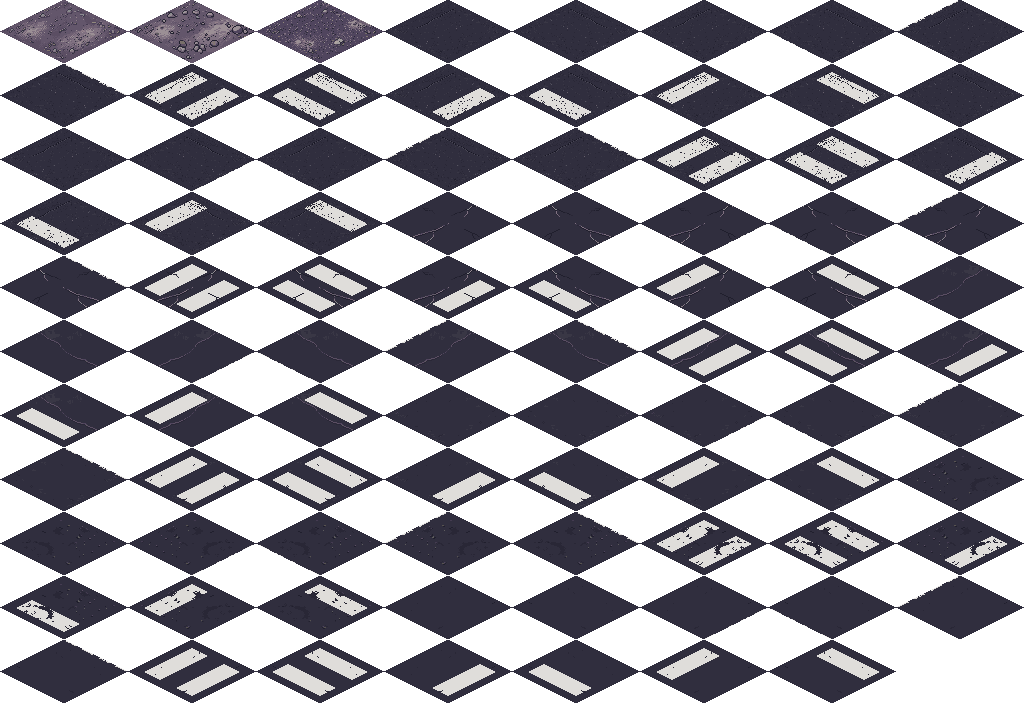
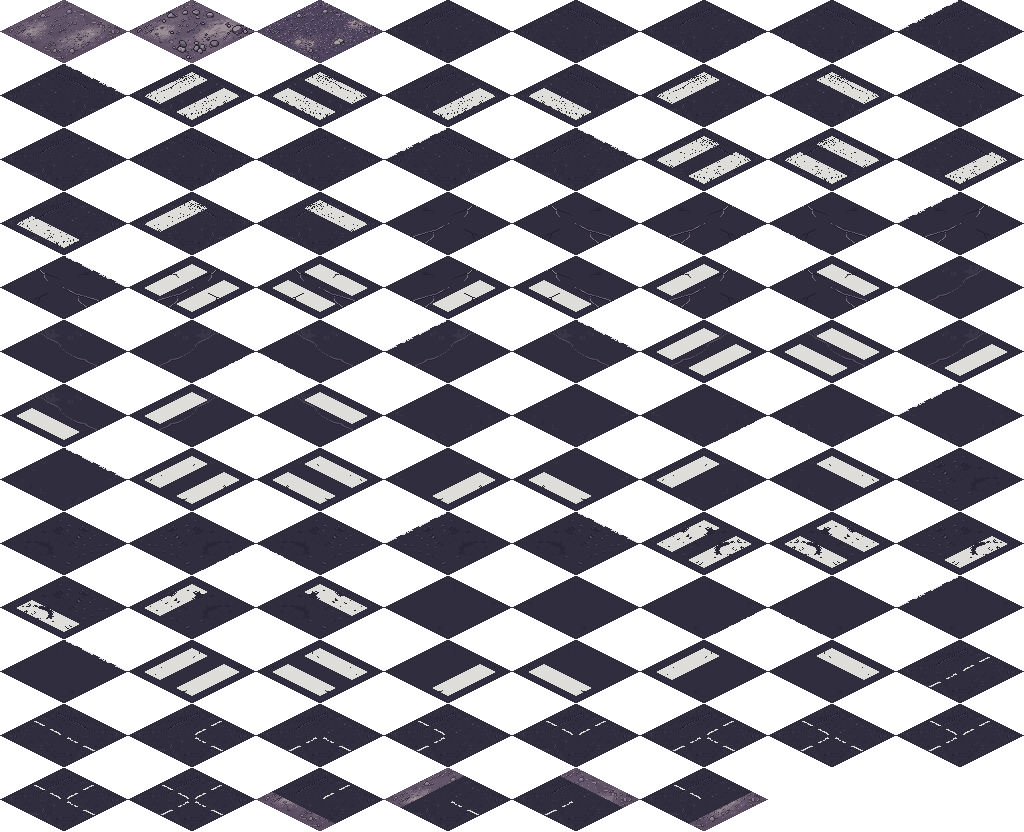
T-252: road corners, T-junctions, crossroads and dead ends in the ground atlas

diff --git a/game/tools/test_build_ground_tiles.py b/game/tools/test_build_ground_tiles.py
@@ -2,6 +2,7 @@
 
 Run from the repo root:  python -m unittest discover -s game/tools -p "test_*.py"
 """
+import hashlib
 import json
 import sys
 import unittest
@@ -183,6 +184,121 @@ class TileTests(unittest.TestCase):
         self.assertEqual(g.bands([(0, 4)], 0, 4), [])
         self.assertEqual(g.pick({"a": 1, "b": 1}, 3, 4, 1), g.pick({"a": 1, "b": 1}, 3, 4, 1))
         self.assertIn(g.pick({"a": 1, "b": 0}, 3, 4, 1), ("a",))
+
+
+PIECE_NAMES = ["piece_" + n for n in g.PIECES]
+# What the game's ground was before T-252 (hashes): its cell indexes and the names of the first
+# tiles. Appending pieces to the atlas must not change them.
+OLD_CELLS_SHA = "5954f97b5cda6608"
+OLD_NAMES_SHA = "798d47a1b283e12a"
+
+
+def sha16(text):
+    return hashlib.sha256(text.encode()).hexdigest()[:16]
+
+
+def white_pixels(name):
+    t = g.atlas_tile(ATLAS, NAMES.index(name))
+    return {(x, y) for y, r in enumerate(t) for x, p in enumerate(r) if g.is_line(p)}
+
+
+class RoadPieceTests(unittest.TestCase):
+    """T-252: corners, T-junctions, crossroads and dead ends drawn from the approved tile."""
+
+    def test_pieces_come_last_and_old_tiles_are_unchanged(self):
+        self.assertEqual(NAMES[g.OLD_TILES:], PIECE_NAMES)
+        self.assertEqual(len(PIECE_NAMES), 15)  # 2 straights, 4 corners, 4 T, 1 cross, 4 dead ends
+        self.assertEqual(sha16(json.dumps(GROUND["cells"])), OLD_CELLS_SHA)
+        self.assertEqual(sha16(json.dumps(NAMES[:g.OLD_TILES])), OLD_NAMES_SHA)
+        used = {k for row in GROUND["cells"] for k in row}
+        self.assertTrue(all(k < g.OLD_TILES for k in used), "the game's ground never uses a piece")
+
+    def test_every_rotation_exists(self):
+        arms = {n: set(a) for n, a in g.PIECES.items()}
+        for kind in ("corner", "t", "dead"):
+            sets = [a for n, a in arms.items() if n.startswith(kind + "_")]
+            self.assertEqual(len({frozenset(a) for a in sets}), 4, kind)
+        self.assertEqual(arms["cross"], set("nesw"))
+        for n, a in arms.items():
+            if n.startswith("corner_"):
+                self.assertEqual(len(a), 2)
+                self.assertNotIn(a, (set("ns"), set("ew")))
+            if n.startswith("t_"):
+                self.assertEqual(len(a), 3)
+            if n.startswith("dead_"):
+                self.assertEqual(len(a), 1)
+
+    def test_lines_are_the_straight_tiles_halves(self):
+        """Each arm's line is exactly the straight tile's line half on that side, so the lines of
+        neighbouring pieces meet at tile edges with the same pixels and dash phase."""
+        mid_y, mid_x = white_pixels("piece_mid_y"), white_pixels("piece_mid_x")
+        half = {
+            "n": {p for p in mid_y if g.local_units(*p)[1] < 1},
+            "s": {p for p in mid_y if g.local_units(*p)[1] >= 1},
+            "e": {p for p in mid_x if g.local_units(*p)[0] >= 1},
+            "w": {p for p in mid_x if g.local_units(*p)[0] < 1},
+        }
+        for a in "nesw":
+            self.assertGreater(len(half[a]), 20, a)
+        for name, arm_set in g.PIECES.items():
+            if name.startswith("mid_"):
+                continue
+            want = set().union(*(half[a] for a in arm_set))
+            self.assertEqual(white_pixels("piece_" + name), want, name)
+
+    def test_line_reaches_every_open_edge_and_no_closed_one(self):
+        near = {"n": lambda wx, wy: wy < 0.3, "s": lambda wx, wy: wy > 1.7,
+                "w": lambda wx, wy: wx < 0.3, "e": lambda wx, wy: wx > 1.7}
+        for name, arm_set in g.PIECES.items():
+            if name.startswith("mid_"):
+                continue
+            w = white_pixels("piece_" + name)
+            for edge, test in near.items():
+                touching = any(test(*g.local_units(x, y)) for x, y in w)
+                self.assertEqual(touching, edge in arm_set, (name, edge))
+
+    def test_dead_end_is_gravel_on_its_closed_side(self):
+        gravel = g.atlas_tile(ATLAS, 0)
+        a0 = g.atlas_tile(ATLAS, NAMES.index("y_plain_a0"))
+        for name, arm_set in g.PIECES.items():
+            if not name.startswith("dead_"):
+                continue
+            t = g.atlas_tile(ATLAS, NAMES.index("piece_" + name))
+            closed = {"n": "s", "s": "n", "e": "w", "w": "e"}[arm_set]
+            far = 0
+            for y in range(g.H):
+                for x in range(g.W):
+                    if not road.footprint(x, y):
+                        continue
+                    wx, wy = g.local_units(x, y)
+                    d = {"s": wy, "n": 2 - wy, "e": wx, "w": 2 - wx}[closed]
+                    if d >= g.DEAD_END_GRAVEL_FROM:
+                        far += 1
+                        self.assertEqual(t[y][x], gravel[y][x], (name, x, y))
+                    elif not g.is_line(t[y][x]):
+                        self.assertEqual(t[y][x], a0[y][x], (name, x, y))
+            self.assertGreater(far, 200)
+
+    def test_open_pieces_are_plain_asphalt_with_the_line(self):
+        a0 = g.atlas_tile(ATLAS, NAMES.index("y_plain_a0"))
+        for name in ("piece_corner_ne", "piece_t_nes", "piece_cross"):
+            t = g.atlas_tile(ATLAS, NAMES.index(name))
+            for y in range(g.H):
+                for x in range(g.W):
+                    if not g.is_line(t[y][x]):
+                        self.assertEqual(t[y][x], a0[y][x], (name, x, y))
+
+    def test_pieces_pass_check_sprite_rules(self):
+        import check_sprite_rules as rules
+        for name in PIECE_NAMES:
+            t = g.atlas_tile(ATLAS, NAMES.index(name))
+            padded = [list(r) for r in t] + [[(0, 0, 0, 0)] * g.W for _ in range(g.W - g.H)]
+            results, _ = rules.check_rows(padded, size=128, max_colors=30)
+            self.assertTrue(all(ok for _, ok, _ in results), (name, results))
+
+    def test_pieces_tile_with_neighbours(self):
+        for name in PIECE_NAMES:
+            self.assertEqual(road.tiling_report(g.atlas_tile(ATLAS, NAMES.index(name))), (0, 0), name)
 
 
 class FilesTests(unittest.TestCase):

diff --git a/game/tools/build_ground_tiles.py b/game/tools/build_ground_tiles.py
@@ -54,6 +54,7 @@ T = (0, 0, 0, 0)
 W, H = road.TILE_W, road.TILE_H
 CELL = road.UNITS_PER_TILE  # units per tile side
 ATLAS_COLS = 8
+OLD_TILES = 87  # the tiles before T-252's road pieces: gravel, asphalt, lines and crossings
 WHITE = (223, 221, 218, 255)  # the approved tile's own line white
 
 # The generated tiles used (index in the T-103 call -> role). Tiles 3 and 8 are not used (result notes).
@@ -196,6 +197,79 @@ def with_zebra(base, skip=()):
     return out
 
 
+# ---- road pieces (T-252) ----------------------------------------------------------------------
+
+# World directions of a tile's edges: n = -y (wy = 0), e = +x (wx = 2), s = +y (wy = 2), w = -x (wx = 0).
+# A road piece is one tile wide with the approved tile's centre line in its middle (wx = 1 along
+# world y, wy = 1 along world x); each arm is the half of that line from the centre to an edge.
+# Name -> the arms (edges the road leaves through).
+PIECES = {
+    "mid_y": "ns", "mid_x": "ew",
+    "corner_ne": "ne", "corner_es": "es", "corner_sw": "sw", "corner_nw": "nw",
+    "t_nes": "nes", "t_esw": "esw", "t_swn": "swn", "t_wne": "wne",
+    "cross": "nesw",
+    "dead_n": "n", "dead_e": "e", "dead_s": "s", "dead_w": "w",
+}
+# The dead end's closed side is gravel from this many units along the tile (0 to 2) on.
+DEAD_END_GRAVEL_FROM = 1.5
+
+
+def arm_pixels(tile_y, tile_x):
+    """For each arm, the set of line pixels (x, y) of the approved line: the along-y line from
+    `tile_y` (n: wy < 1, s: wy >= 1) and the along-x line from `tile_x` (e: wx >= 1, w: wx < 1)."""
+    arms = {k: set() for k in "nesw"}
+    for y in range(H):
+        for x in range(W):
+            if not road.footprint(x, y):
+                continue
+            wx, wy = local_units(x, y)
+            if is_line(tile_y[y][x]):
+                arms["n" if wy < 1 else "s"].add((x, y))
+            if is_line(tile_x[y][x]):
+                arms["e" if wx >= 1 else "w"].add((x, y))
+    return arms
+
+
+def road_piece(base, arms, arm_set, gravel=None, closed=None):
+    """`base` (asphalt, no line) with the line of every arm in `arm_set`; for a dead end the
+    closed side `closed` (an edge letter) is gravel past DEAD_END_GRAVEL_FROM."""
+    out = [list(r) for r in base]
+    for a in arm_set:
+        for (x, y) in arms[a]:
+            out[y][x] = WHITE
+    if closed:
+        for y in range(H):
+            for x in range(W):
+                if not road.footprint(x, y):
+                    continue
+                wx, wy = local_units(x, y)
+                d = {"s": wy, "n": 2 - wy, "e": wx, "w": 2 - wx}[closed]
+                if d >= DEAD_END_GRAVEL_FROM:
+                    out[y][x] = gravel[y][x]
+    return out
+
+
+def piece_tiles(approved, a0, gravel):
+    """The road pieces (PIECES), drawn from the approved tile and the plain asphalt a0, in order."""
+    flipped = cut_to_footprint(flip(approved))
+    arms = arm_pixels(cut_to_footprint(approved), flipped)
+    out = []
+    for name, arm_set in PIECES.items():
+        if name.startswith("mid_"):
+            rows = cut_to_footprint(approved) if name == "mid_y" else flipped
+            how = "the approved tile's centre line along world %s (1-tile-wide road)" % name[-1]
+        elif name.startswith("dead_"):
+            closed = {"n": "s", "s": "n", "e": "w", "w": "e"}[arm_set]
+            rows = road_piece(a0, arms, arm_set, gravel, closed)
+            how = "road ends: line from the %s edge to the centre, gravel from %s units on the other side" % (
+                arm_set, DEAD_END_GRAVEL_FROM)
+        else:
+            rows = road_piece(a0, arms, arm_set)
+            how = "asphalt a0 with the approved line's halves from the centre to the %s edges" % ", ".join(arm_set)
+        out.append(("piece_" + name, rows, "T-252 road piece (%s), %s" % (name, how)))
+    return out
+
+
 # ---- tiles ------------------------------------------------------------------------------------
 
 def raw_path(i):
@@ -229,6 +303,8 @@ def build_tiles(approved=None, raws=None):
         for kind, rows, h in kinds:
             tiles.append(("y_%s_%s" % (kind, bname), rows, "along world y: " + h))
             tiles.append(("x_%s_%s" % (kind, bname), flip(rows), "along world x (mirrored): " + h))
+    # T-252: the road pieces go last, so every earlier tile keeps its index (the game's ground).
+    tiles += piece_tiles(approved, a0, tiles[0][1])
     return tiles
 
 
@@ -423,7 +499,10 @@ def record(tiles):
         }],
         "size": "each tile 128 x 64 pixels = 2 x 2 units; neighbours at (+64, +32) along world x and (-64, +32) along world y; exact footprint",
         "layout": "game/data/level/mvp_ground.json",
-        "tiles": [{"index": k, "name": name, "atlas_xy": [(k % ATLAS_COLS) * W, (k // ATLAS_COLS) * H], "made": how}
+        "road_pieces": "T-252: the tiles named piece_* (corners, T-junctions, crossroads, dead ends and the "
+                       "1-tile-wide straights), drawn by script from the approved tile; no PixelLab call",
+        "tiles": [dict({"index": k, "name": name, "atlas_xy": [(k % ATLAS_COLS) * W, (k // ATLAS_COLS) * H],
+                        "made": how}, **({"piece": True} if name.startswith("piece_") else {}))
                   for k, (name, _, how) in enumerate(tiles)],
     }
 
@@ -434,7 +513,7 @@ def check_atlas(atlas, n, max_colors=30):
     for k in range(n):
         t = atlas_tile(atlas, k)
         res = road.check_tile(t, max_colors)
-        g, o = road.tiling_report(t) if k < 3 or k % 12 in (3, 4) else (0, 0)
+        g, o = road.tiling_report(t) if k < 3 or (k < OLD_TILES and k % 12 in (3, 4)) else (0, 0)
         res.append(("tiles with 0 gaps and 0 overlaps", (g, o) == (0, 0), "%d gaps, %d overlaps" % (g, o)))
         results.append((k, res))
     return results
